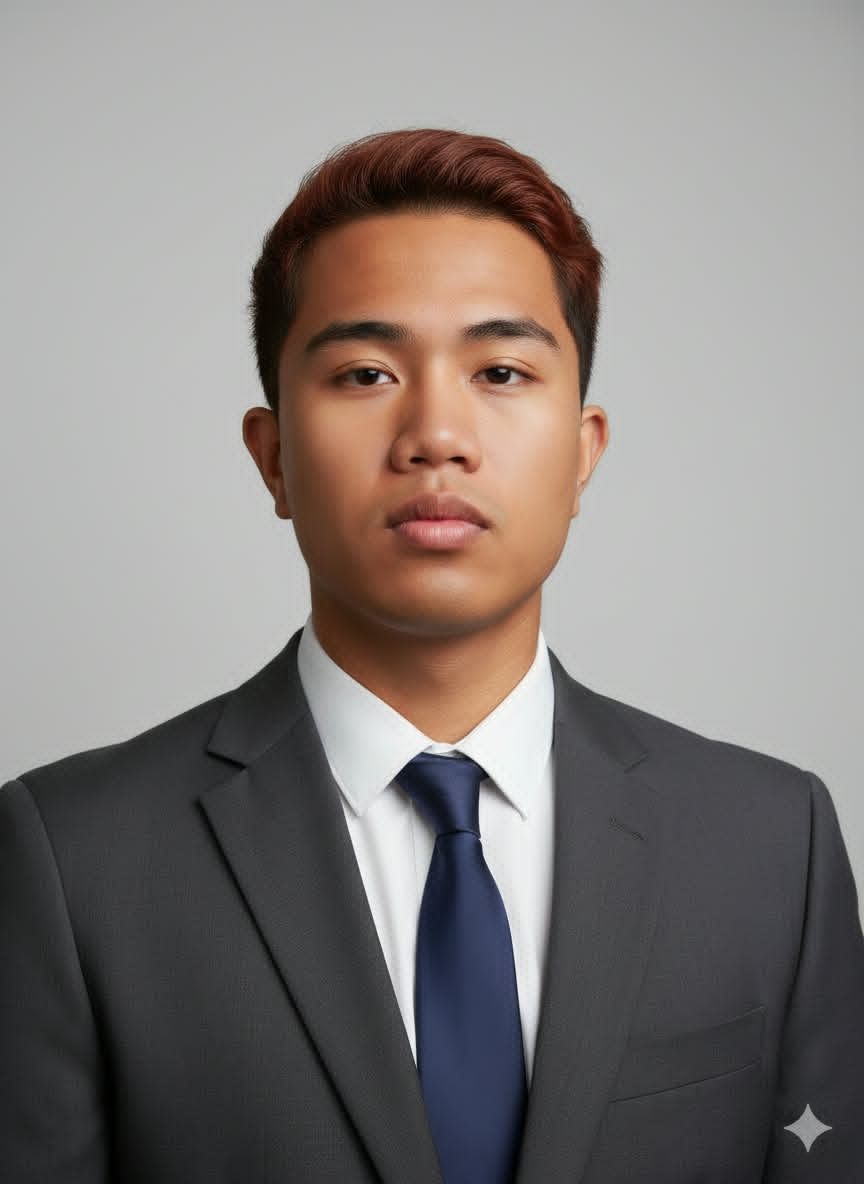
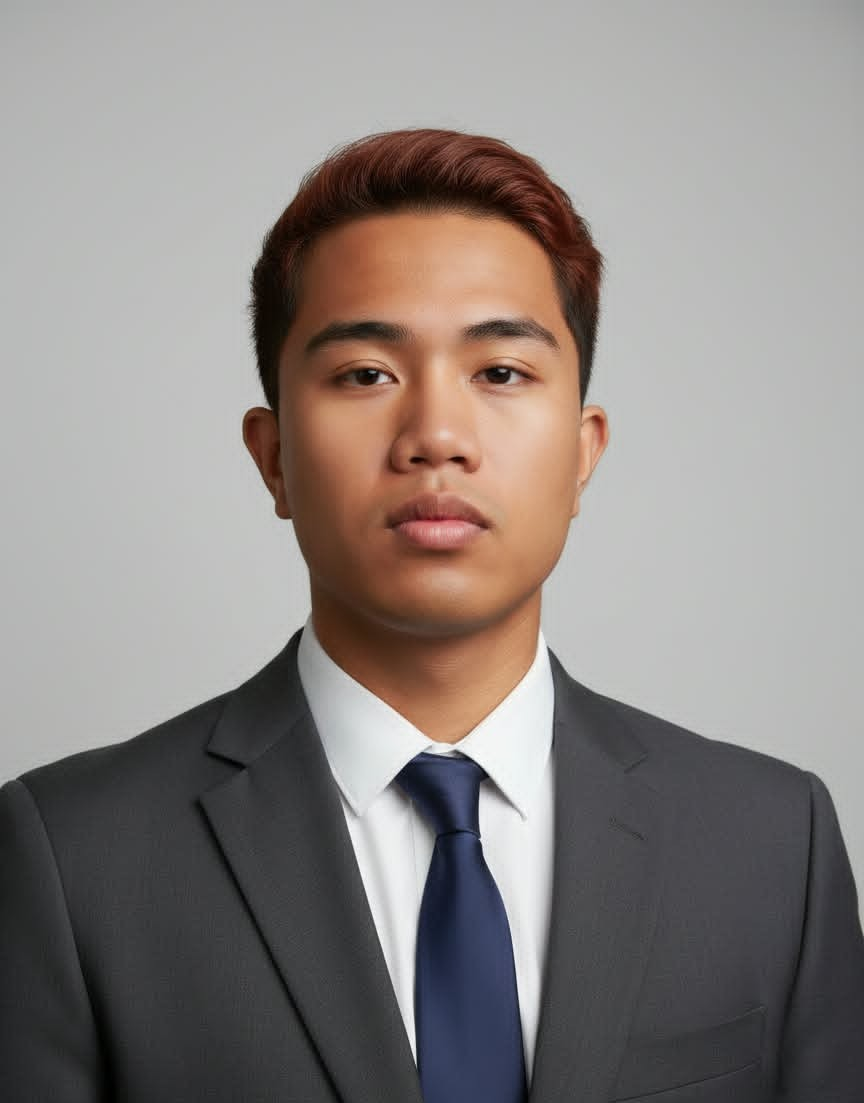
feat: removed 'auto-slide' text

diff --git a/index.html b/index.html
@@ -73,9 +73,6 @@
             </div>
           </div>
         </div>
-        <p class="art-scroll-indicator">
-          <span aria-hidden="true">↔</span> AUTO-SLIDING · 2 SEC
-        </p>
       </div>
     </section>
 
